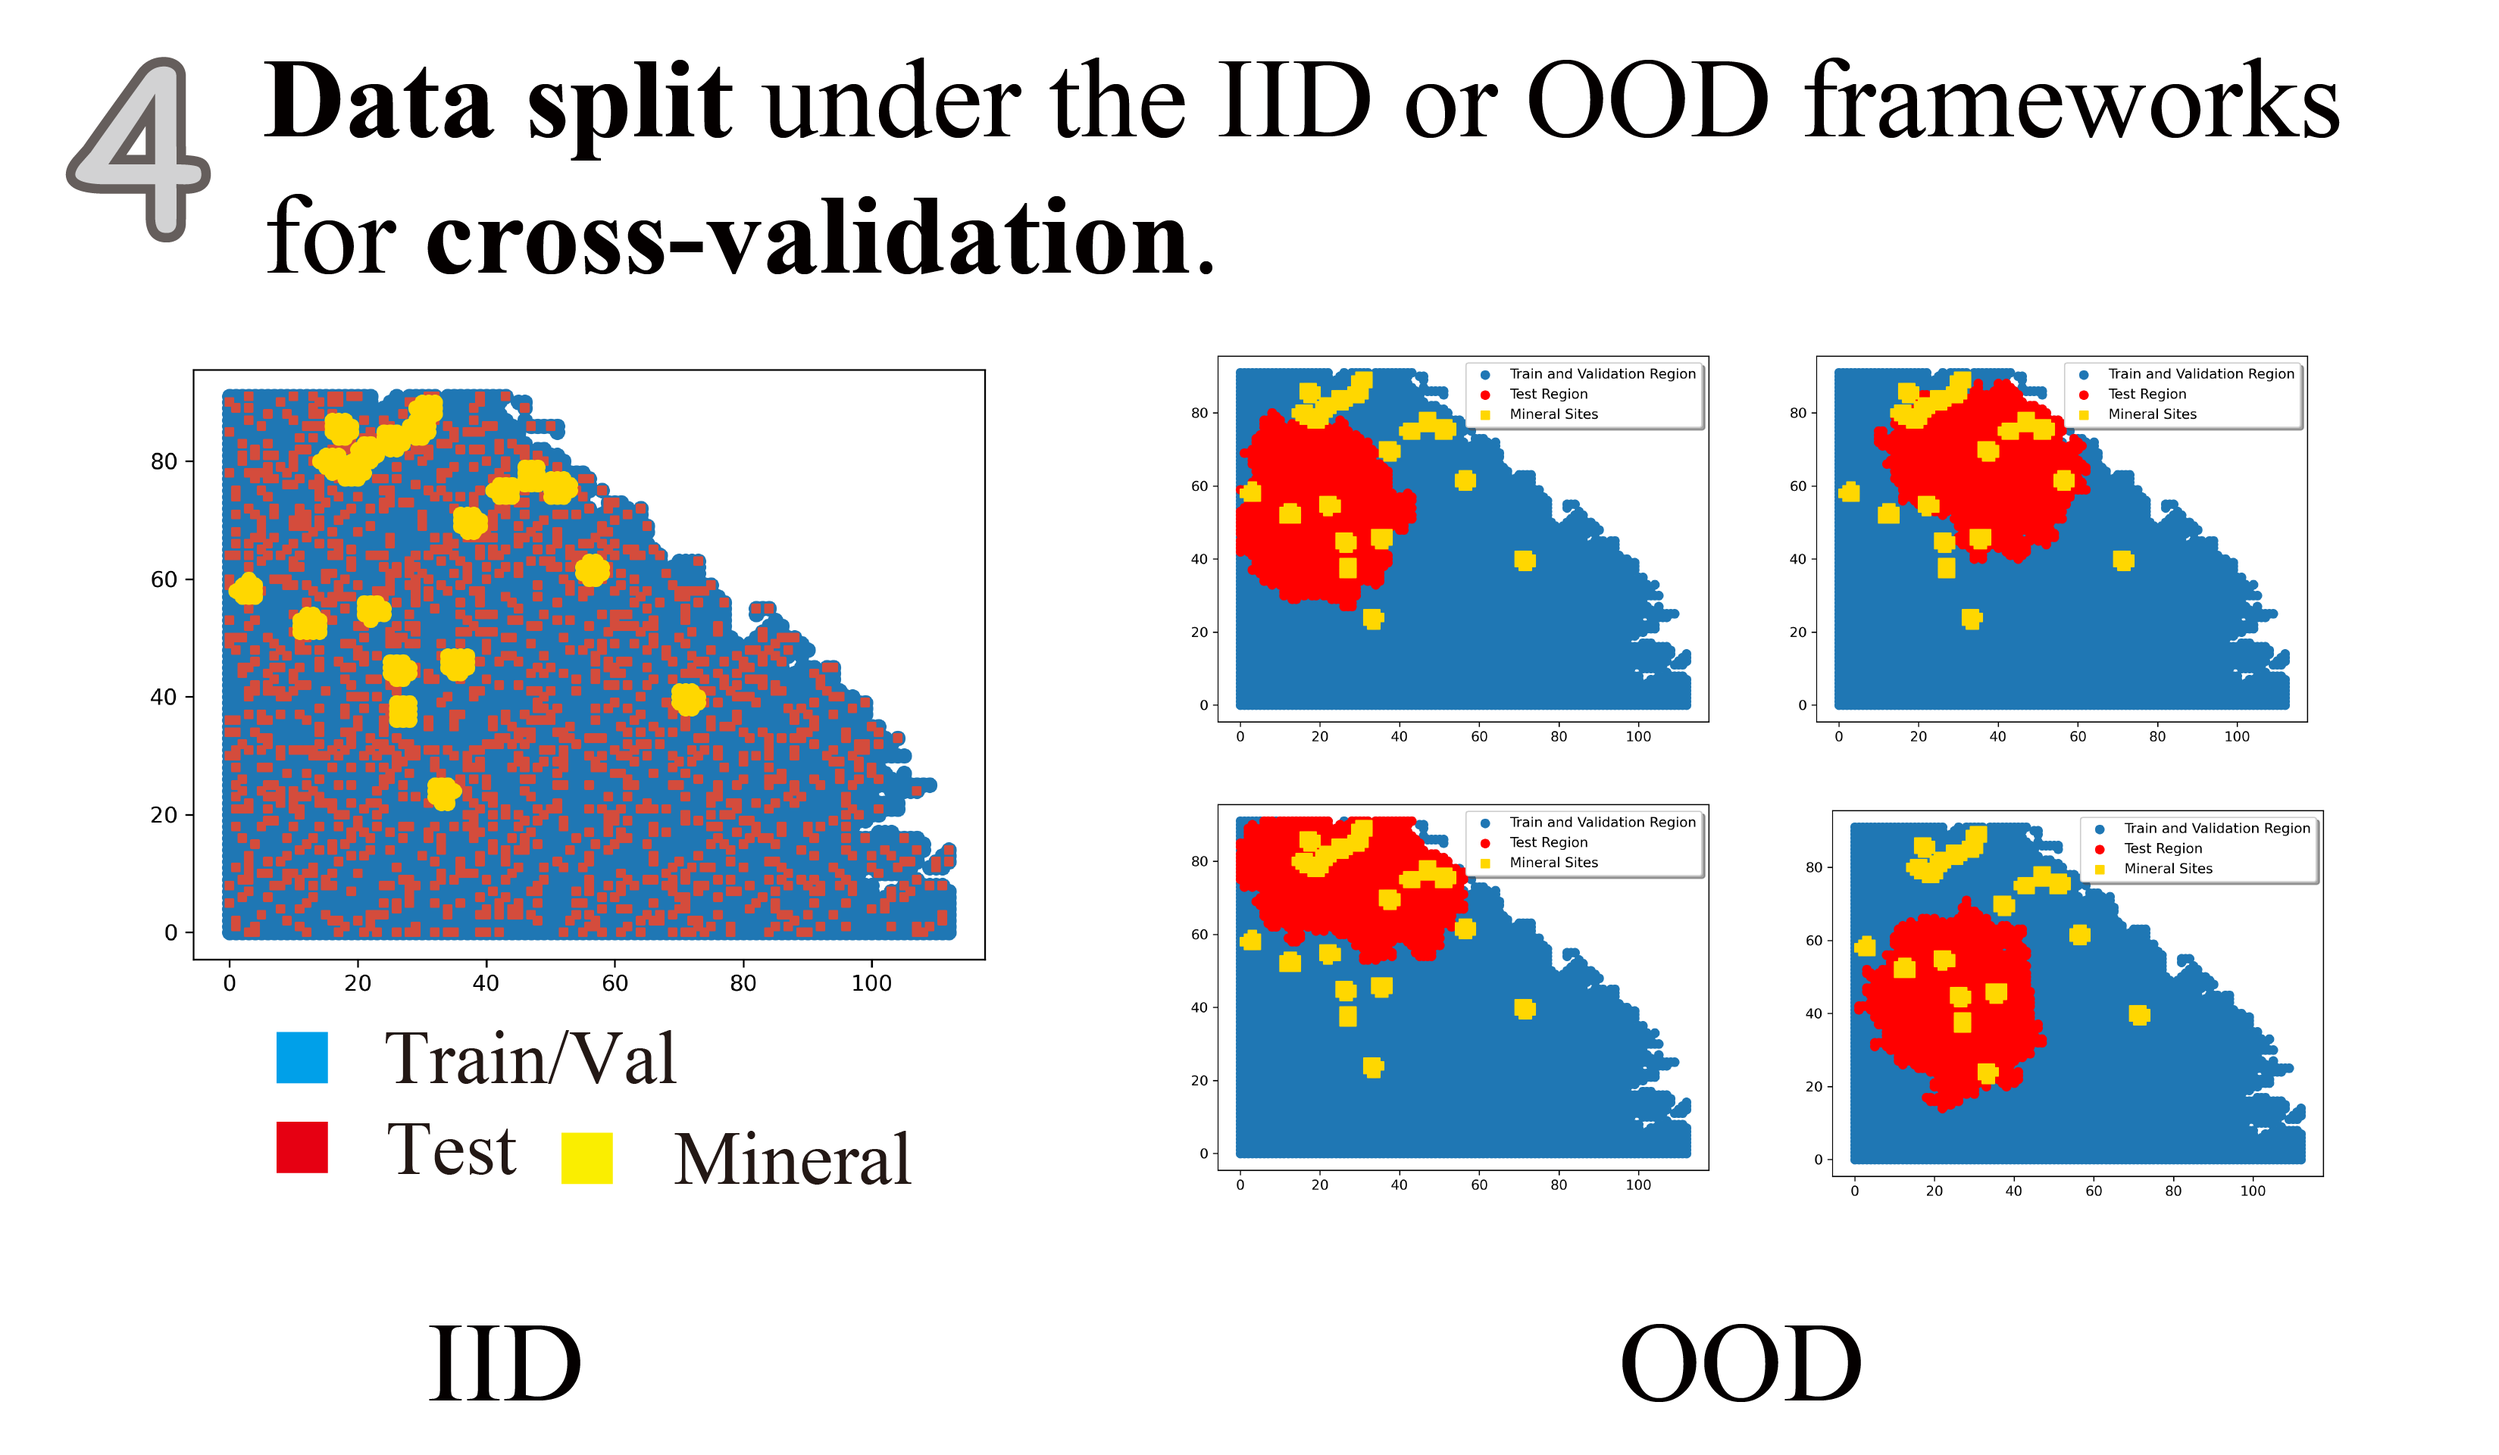
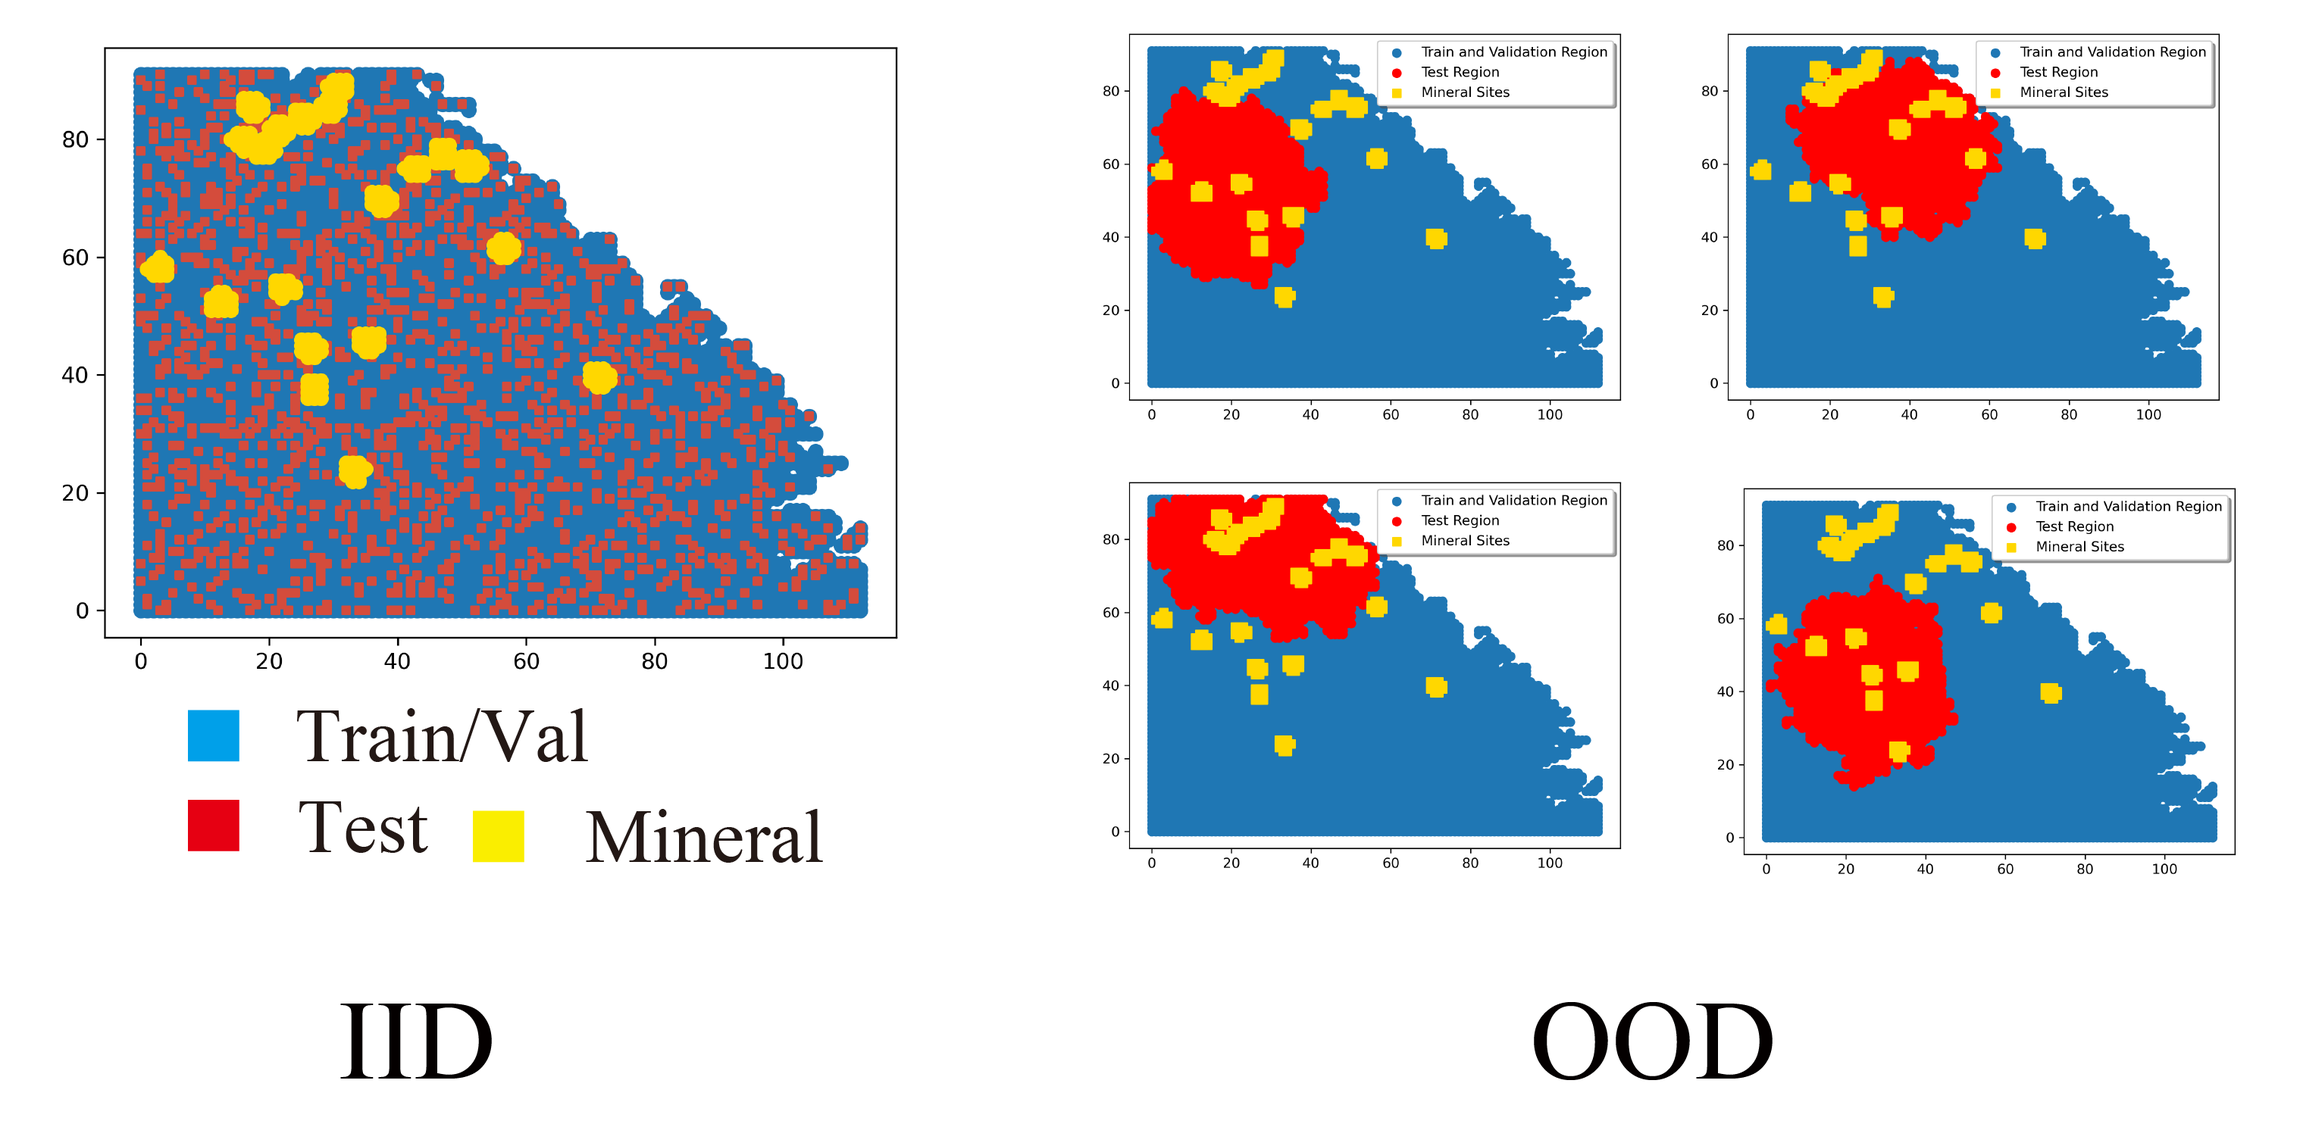
updated

diff --git a/docs/source/mpm.rst b/docs/source/mpm.rst
@@ -92,7 +92,7 @@ Auto-Interpolation
 
 .. image:: interp.png
    :align: center
-   :width: 400px  
+   :width: 600px 
 
 The selection of different interpolation strategies in ``method.py``.
 
@@ -122,7 +122,7 @@ Feature Filtering
 
 .. image:: filtering.png
    :align: center
-   :width: 400px  
+   :width: 600px  
 
 Then, an automated two-tier screening workflow is used in autoMPM. In the first tier, the system filters the features based on their Pearson coefficient with the training labels. In the second tier, the system employs Shapley values, which provide a systematic measure of the contribution of each individual feature to the overall model performance.
 
@@ -139,7 +139,7 @@ Data Enhancement
 ^^^^^^^^^^^^^^^^
 .. image:: enhance.png
    :align: center
-   :width: 400px  
+   :width: 600px  
 
 Data augmentation was employed to expand each ore spot from a single point to a mxm area, which allows for a more comprehensive representation of the ore distribution, capturing the spatial context and potential variations within the surrounding area.
 
@@ -160,7 +160,7 @@ Data Split
 
 .. image:: split.png
    :align: center
-   :width: 400px  
+   :width: 1200px  
 
 - Two data split ways that suitable for different situations:
 
@@ -170,6 +170,11 @@ Data Split
 
 - ``random_split`` for IID case. Split the dataset into train set and test set, and apply K-fold Cross-validation.
 - ``dataset_split`` for OoD case. Split the dataset using K-means clustering, as in ``test_extend`` that generate the mask of test dataset.
+
+
+
+
+
 
 .. code-block:: python
 
@@ -197,7 +202,7 @@ After all the pre-processing stages, the raw data will be packed in a *.pkl* fil
 
 
 Algorithm and Hyperparameter Selection
------------------------
+--------------------------------------
 
 Bayesian Optimization Auto-ML system
 ^^^^^^^^^^^^^^^^^^^^^^^^^^^^^^^^^^^^
@@ -207,7 +212,7 @@ After pre-processing, the data package is input into the automatic system. It's 
    :align: center
    :width: 700px 
 
-The output of AutoMPM comes from its algorithmic predictions. Discover the standard class structure for encapsulating gold mine prediction algorithms:
+The output of AutoMPM comes from its algorithmic predictions. The algorithm class used for mineral prediction is shown below: (here taken the rfc algorithm as an example)
 
 .. code-block:: python
 
